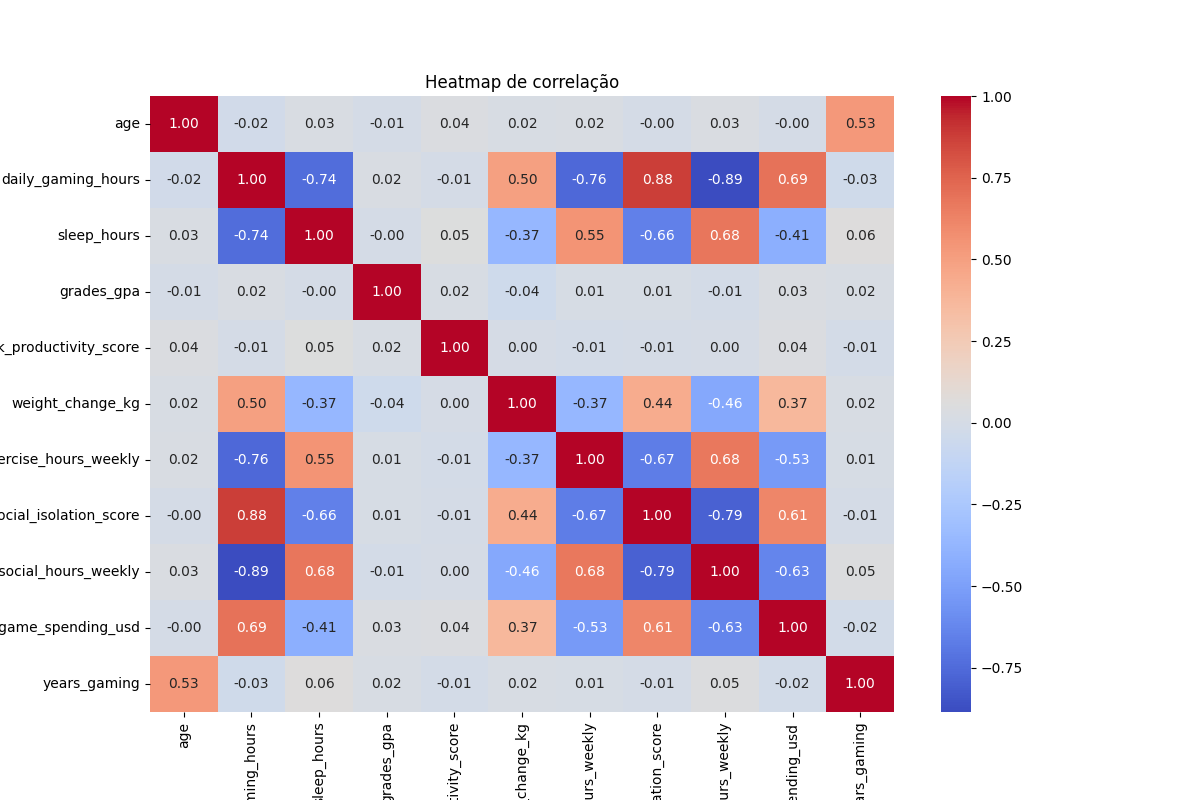
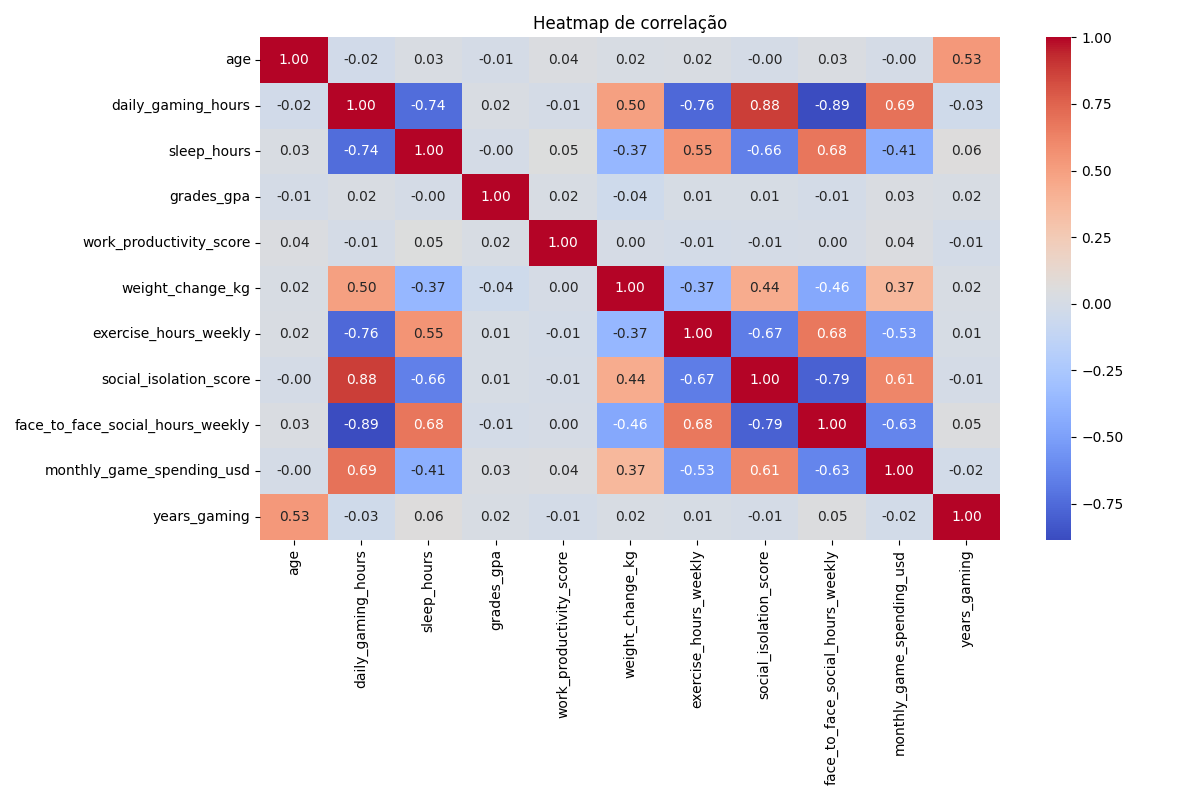
heatmap update

diff --git a/analysis/EDA.py b/analysis/EDA.py
@@ -468,6 +468,8 @@ sns.heatmap(
 
 plt.title("Heatmap de correlação")
 
+plt.tight_layout()
+
 plt.savefig("../img/heatmap_correlacao.png")
 
 plt.show()
